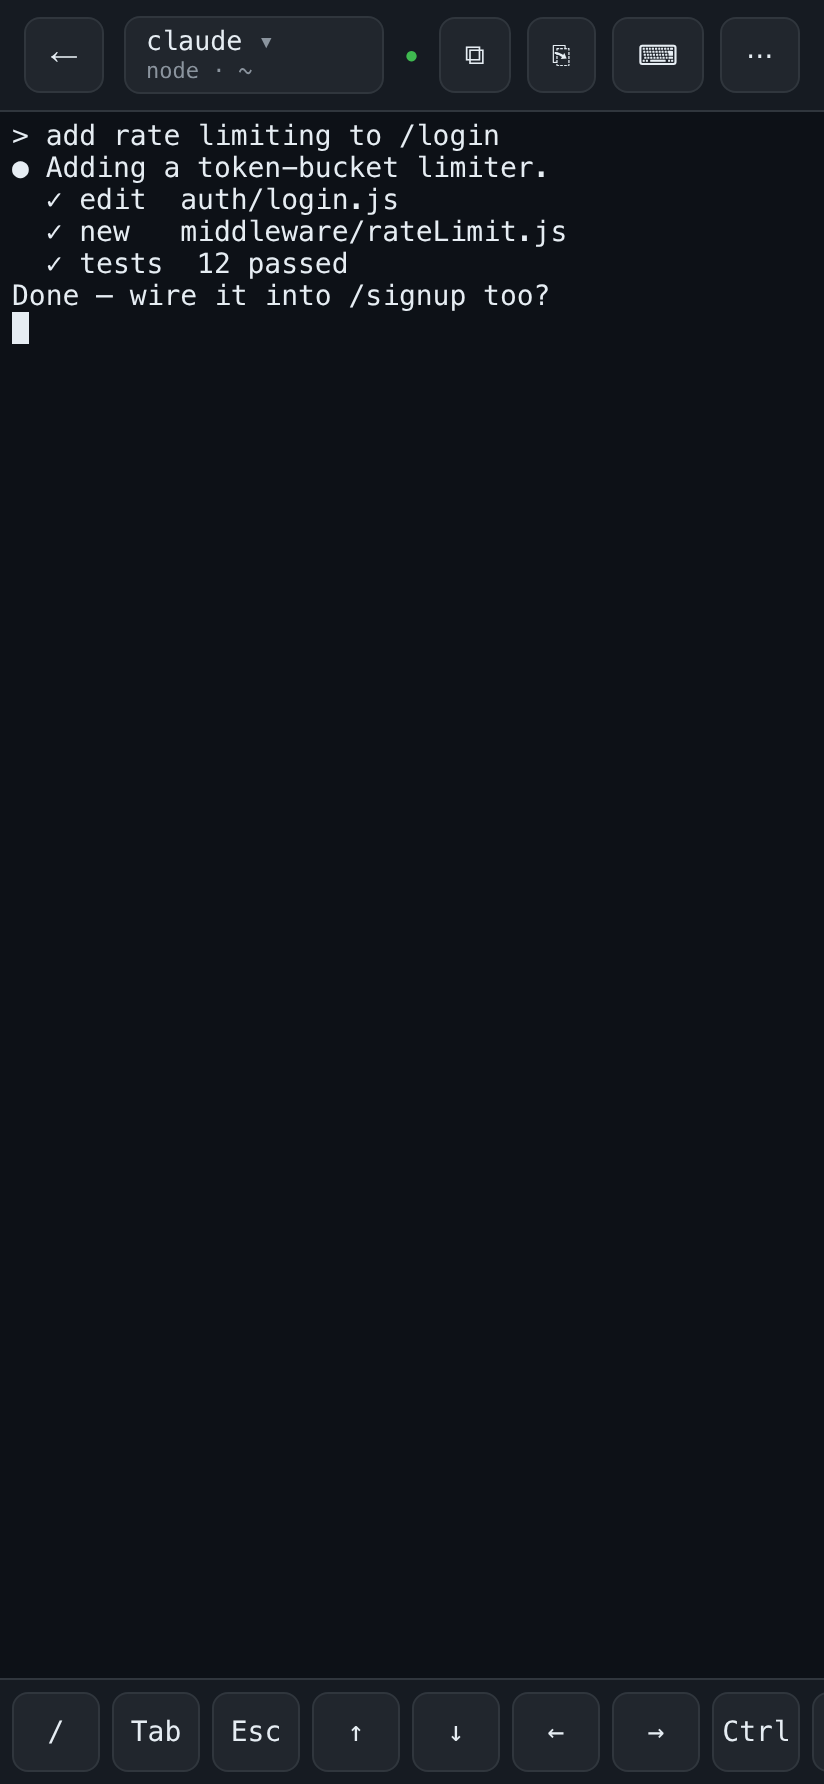
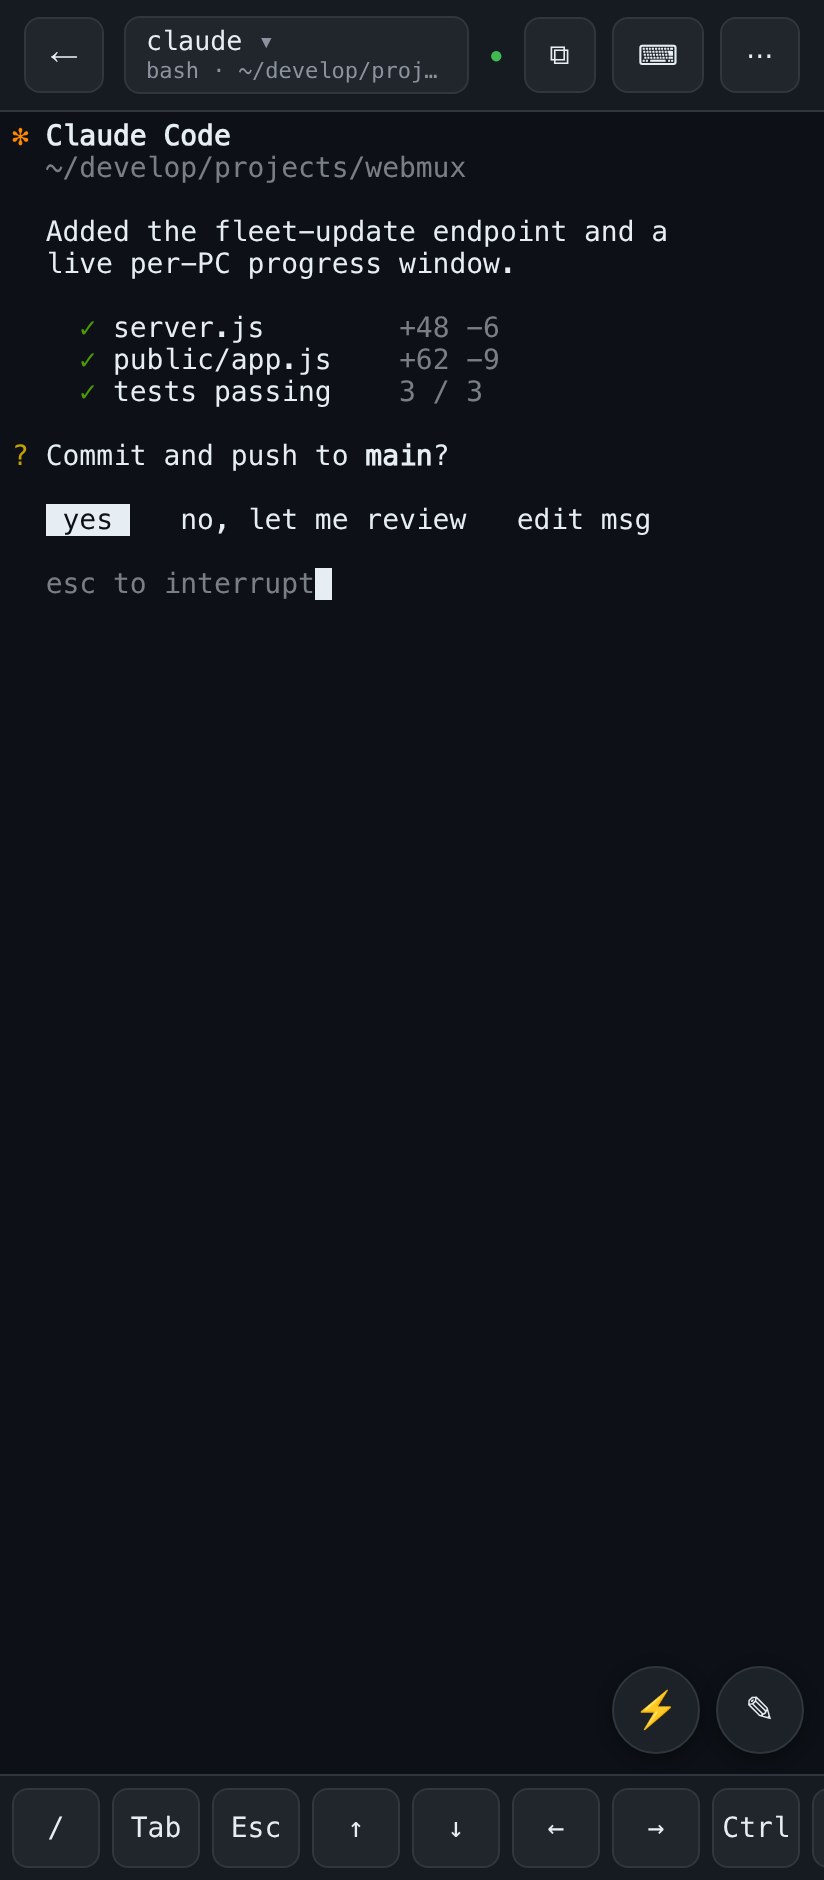
Rewrite README as a product showcase; move internals to docs/TECHNICAL.md
- README is now benefit-driven and sells the workflow, with fresh screenshots of
  the features in action (fleet stats picker, answering an agent with one-tap
  chips, sessions grouped by machine, the terminal view, the compose bar).
- All the deep details (config table, full HTTP/WS API, fleet-update mechanism,
  Web Push activity alerts, Tailscale peer proxying, notes/caveats) moved to a
  new docs/TECHNICAL.md, linked from the README.

diff --git a/docs/TECHNICAL.md b/docs/TECHNICAL.md
@@ -1,0 +1,147 @@
+# webmux — technical reference
+
+The user-facing pitch lives in the [README](../README.md). This document covers configuration, the
+API, and how the moving parts work.
+
+## How it works
+
+webmux replaces ttyd while keeping the tmux session model intact. The backend is a small Node HTTP
+server (`server.js`, no framework) that:
+
+- serves the static PWA from `public/`,
+- exposes a JSON API over plain HTTP,
+- bridges a WebSocket to a real PTY running `tmux attach` / `tmux new-session` (via `node-pty`).
+
+Each terminal WebSocket is symmetric and frame-type discriminated:
+
+- **text frame** — a JSON control message (`{type:"session"|"resize"|"error"|"exit"|"ping"|"pong", …}`),
+- **binary frame** — raw terminal bytes (stdin client→server, stdout server→client).
+
+Detaching the browser kills only the PTY's `tmux attach` client; tmux keeps the session alive, so
+nothing is lost when the phone disconnects. New sessions are created with `destroy-unattached off` so
+they survive even before the desktop window attaches.
+
+## Install
+
+```sh
+curl -fsSL https://raw.githubusercontent.com/samoylenkodmitry/webmux/main/install.sh | bash
+```
+
+Installs a background service on `127.0.0.1:8083` — a **systemd user service** on Linux, a **launchd
+agent** on macOS. The installer is **interactive**: it offers to install `tmux` if missing, lets you
+pick which installed terminal **New** opens on the desktop, can auto-start tmux in new shells (so
+terminals you open normally also show up in webmux), and can configure the Tailscale share.
+
+- **Requires** Node ≥ 18, npm, and a C toolchain for the native PTY module (Linux:
+  `base-devel`/`build-essential` + `python3`; macOS: Xcode Command Line Tools).
+- Set `WEBMUX_NONINTERACTIVE=1` to accept defaults silently (used by the in-app fleet update). On a
+  machine that already has webmux, a non-interactive run **reuses the existing settings**.
+- The installer is also the **deploy** step: re-running it does `git fetch` + `reset --hard origin/main`
+  in `~/.local/share/webmux`, rebuilds, and restarts the service.
+
+Expose it to your phone (recommended: Tailscale, which keeps it private):
+
+```sh
+tailscale serve --bg 8083
+```
+
+### Run from source
+
+```sh
+git clone https://github.com/samoylenkodmitry/webmux && cd webmux
+npm install   # builds node-pty, vendors xterm.js into public/vendor
+npm start     # http://127.0.0.1:8083
+```
+
+## Configure
+
+Environment variables (set in the generated service file or your shell):
+
+| var | default | meaning |
+|-----|---------|---------|
+| `HOST` | `127.0.0.1` | bind address |
+| `PORT` | `8083` | port |
+| `DESKTOP_TERMINAL` | ghostty (Linux) · Terminal.app (macOS) | emulator for "open on PC"; any that accepts `-e <cmd>` |
+| `TERM_NAME` | `xterm-256color` | `TERM` for the PTY |
+| `TMUX_SOCKET` | — | target a specific `tmux -L <name>` server |
+| `TMUX_BIN` | `tmux` (PATH) | absolute path to the tmux binary (baked in by the installer) |
+| `WEBMUX_STATE` | `~/.local/state/webmux` | recents, shared snippets, VAPID keys, push subscriptions |
+| `WEBMUX_TAILSCALE` | unset | `1` shows this node's share + other tailnet webmux instances in the picker |
+| `WEBMUX_INSTALL_URL` | the GitHub `install.sh` | override the installer one-liner used by the update button |
+
+## Security
+
+webmux has **no authentication** — anyone who can reach the port gets a shell as you. That is safe
+*only* because it binds to `127.0.0.1` and is exposed through your private Tailscale tailnet, which
+authenticates devices. **Do not** bind it to `0.0.0.0`, the public internet, or a `tailscale funnel`.
+Treat the URL like SSH access to your machine. The fleet features (broadcast, update, shared snippets)
+inherit this model: they reach peers over the tailnet only, with no extra auth.
+
+## Multiple machines (Tailscale)
+
+With `WEBMUX_TAILSCALE=1`, webmux discovers other webmux instances on your tailnet by probing each
+online peer's `/api/health` (dialing the peer's Tailscale IP with the MagicDNS name as SNI + Host, so
+TLS validates even when this node's own MagicDNS can't resolve `.ts.net`). Peer data shown in the
+picker — sessions, stats, health — is **proxied through your local server** (`/api/peer/*`) so the
+browser never has to make cross-origin requests. Tapping a peer navigates to its `…ts.net` URL in the
+same tab; if it can't be reached from your device, the picker shows a one-line `/etc/hosts` workaround.
+
+## Fleet update
+
+Pressing **Update all** updates every *other* box on the tailnet to this PC's version, with a live
+per-machine progress window; this PC stays up as the coordinator (update it the normal way). For each
+peer:
+
+- newer peers self-update via `POST /api/update?scope=self`;
+- peers too old to have that endpoint are bootstrapped by driving their `/ws/new` shell — the same
+  shell access the UI already has — to run the installer.
+
+The installer runs non-interactively, **reuses each box's existing settings**, and is detached with
+`nohup` so it survives the service restart it triggers (output → `/tmp/webmux-update.log` on each
+peer). The progress window polls each peer's `/api/health` version until it matches.
+
+## Activity alerts (Web Push)
+
+Opt-in via 🔔 in the terminal menu (install the PWA first). The server keeps per-session activity
+state in its 5-second sampler; when a session that was producing output goes quiet for ~12s **while no
+client is attached**, it sends a Web Push notification ("X is idle — your turn"). Tapping it focuses
+or opens that session. VAPID keys are generated once and persisted to `WEBMUX_STATE`; subscriptions are
+stored there too. If the `web-push` dependency is missing, the endpoints simply report disabled. The
+picker also shows a "new output" dot on sessions whose activity advanced since you last viewed them.
+
+## HTTP / WebSocket API
+
+| path | method | purpose |
+|------|--------|---------|
+| `/api/sessions` | GET | list tmux sessions (name, attached, windows, foreground command, path, activity) |
+| `/api/session?name=` | GET | one session's live command/dir/activity |
+| `/api/recents` | GET | recently closed directories |
+| `/api/capture?name=` | GET | full scrollback as plain text |
+| `/api/windows?name=` | GET/POST | list / select / new / kill windows |
+| `/api/open?name=` | POST | open the session as a real terminal window on the PC |
+| `/api/kill?name=` | POST | kill a session |
+| `/api/stats` · `/api/procs` | GET | machine stats (cpu/gpu/ram/disk/temp/uptime/load) · top processes |
+| `/api/broadcast?scope=` | POST | run a command on this box (`self`) or the whole fleet (`all`) |
+| `/api/update?scope=` | POST | self-update (`self`) or coordinate a fleet update (`all`) |
+| `/api/snippets` | GET/POST | shared quick-reply chips (POST `?scope=all` fans out to peers) |
+| `/api/push/key` · `/subscribe` · `/unsubscribe` · `/test` | GET/POST | Web Push wiring |
+| `/api/tailnet` | GET | this node's share state + discovered webmux peers |
+| `/api/peer/{sessions,health,stats,procs}?dns=&ip=` | GET | proxy the corresponding endpoint on a peer |
+| `/api/health` | GET | tmux reachability + running version |
+| `/ws/session/<name>` | WS | attach an existing session |
+| `/ws/new[?name=&dir=&desktop=1]` | WS | create + attach a new session (in `~` by default) |
+
+## Notes
+
+- webmux only sees **tmux** sessions. To make terminals you open normally show up, let the installer
+  add the **auto-tmux** snippet to your shell rc (guarded by `# >>> webmux tmux autostart >>>` markers
+  — delete that block to undo).
+- The session list shows the **full foreground command** (so `sudo btop` reads as `sudo btop`, not just
+  `sudo`), resolved from the pane's controlling-terminal foreground process group (Linux).
+- **"Open on PC"** is best-effort (Ghostty on Linux; Terminal.app/iTerm/Ghostty on macOS). The service
+  reads the graphical session's `DISPLAY`/`WAYLAND_DISPLAY`/D-Bus env from the systemd user manager at
+  spawn time, so it works even though the background service starts without them.
+- **Scrollback limits:** full-screen TUIs that repaint in place (e.g. Claude Code) keep their own
+  scroll view and don't push history into the terminal scrollback, so the copy view can only capture
+  the current screen for those. Regular shell/command output captures in full.
+- Per-terminal **font size** is remembered per session; quick-reply snippets are shared fleet-wide.

diff --git a/README.md b/README.md
@@ -1,53 +1,83 @@
 <h1 align="center">webmux</h1>
 
-
-All terminals from all computers in a single place.
-
-https://github.com/user-attachments/assets/f6fbf494-1de4-47cb-b80e-32f76660511e
-
-
-
+<p align="center"><b>Every terminal on every computer you own — in your pocket.</b></p>
 
 <p align="center">
   <img src="public/icon.svg" width="84" alt="webmux">
 </p>
 
-<p align="center">A tiny self-hosted <b>web terminal for your tmux sessions</b> — attach to, create, and switch between terminals on your machine from any browser. Built for phones.</p>
+https://github.com/user-attachments/assets/f6fbf494-1de4-47cb-b80e-32f76660511e
 
 <p align="center">
-  <img src="docs/picker.png" alt="session picker" width="44%">
-  &nbsp;&nbsp;
-  <img src="docs/terminal.png" alt="terminal view" width="44%">
+A tiny self-hosted <b>web terminal for your tmux sessions</b>, built for phones. Run your long-lived
+terminals — coding agents, dev servers, builds — in tmux on your machines at home; check on and steer
+them from your phone, <b>from anywhere</b>, over your private Tailscale network.
 </p>
 
 ---
 
-Rendered with [xterm.js](https://xtermjs.org/); the backend bridges a WebSocket to `tmux attach` over a real PTY. Detaching the browser never kills your local terminal.
+<p align="center">
+  <img src="docs/picker.png"        alt="All your machines and sessions, with live stats" width="30%">
+  &nbsp;
+  <img src="docs/quick-replies.png" alt="Answer your coding agent with one tap"          width="30%">
+  &nbsp;
+  <img src="docs/switcher.png"      alt="Every machine's sessions in one list"           width="30%">
+</p>
 
-## What it does
-- Lists your tmux sessions; attach, create, switch, or close them.
-- Full terminal over WebSocket: input/output, resize, paste, scrollback, copy.
-- **Mobile-first:** soft keys (`/ Tab Esc ↑↓←→ Ctrl ^C …`), keyboard-aware layout, touch scrolling, installable as a home-screen app (PWA), robust reconnect on wake/network change.
-- **New sessions also open a real terminal window on your PC** and persist after the browser leaves — so they stay visible locally and you can always return to them.
-- **Recent directories:** when a session closes, its directory is remembered so you can start a fresh terminal there in one tap.
-- **Live title:** the bar (and tab) shows the session's current command + directory.
-- **Multiple machines:** optionally discovers other webmux instances on your [Tailscale](https://tailscale.com) tailnet and shows them as a row of cards — each with **live CPU / GPU / RAM / free disk and a CPU sparkline**; tap ⓘ for **top processes, temperature, uptime and load**. Switch between boxes, or hit ⇉ to **run a command on the whole fleet** and see each one's output. The session switcher also lists **every machine's sessions, grouped by box** (each peer streams in as it answers), with a per-machine **＋ New** button.
-- **Compose bar:** a ✎ floating button opens a plain text field to type into and **Send** to the terminal — mobile keyboards' predictive text / T9 work there without the character-doubling that direct in-terminal typing can cause. It auto-grows, keeps a **navigable, persisted history** of inputs (each Send starts a new item; the live draft is saved as you type, so a reload never loses it), and has an **Undo** for accidental big pastes. Plus **Undo last** (erase exactly what you last typed) and **Clr Ln** (^U) soft-keys.
-- **Quick replies:** a ⚡ toggle shows a row of one-tap chips (`y` / `continue` / `approve` / …) that send common answers to coding agents without the keyboard. The list is editable and **synced across the whole tailnet** — edit it on one machine and every webmux picks it up.
-- **Scrollback search:** the copy view has a search box with match count and next/prev to find text across the captured history.
-- **One-tap fleet update:** a menu button updates **every other webmux box on your tailnet** to this PC's version — non-interactively, each machine keeping its own settings — with a live per-PC progress window. (This PC stays up as the coordinator/source; update it the normal way.)
-- **Activity alerts:** opt-in push notifications — when a session that was producing output goes quiet while no client is attached (your agent/build finished and is waiting), your phone buzzes; tap the notification to jump straight into that session. The picker also shows a "new output" dot on sessions that changed since you last looked. (Install the PWA and toggle 🔔 Notifications in the terminal menu; uses Web Push.)
-- **Per-terminal font size:** each session remembers its own zoom.
+## Why you'll want this
 
-## Why (the workflow)
+You run `claude`, `codex`, dev servers, and builds in **tmux on your big machine**. Then you leave the desk.
 
-Run your long-lived terminals — `claude`, `codex`, dev servers, builds, `htop` — in **tmux on your big machine**. Put webmux in front, reachable only over your private [Tailscale](https://tailscale.com) network. Now from your phone, anywhere:
+webmux puts a real terminal in your pocket. From your phone, anywhere on your private network:
 
-1. Open the home-screen app → see every session with its live command/dir.
-2. Tap one to jump in: read what your coding agent is doing, answer its prompt, approve a step, paste a fix, `^C` a runaway, scroll back through output.
-3. Tap **＋ New** (or a recent dir) to start a fresh session — a **real Ghostty/Terminal window opens on the PC too**, so when you're back at the desk it's right there, exactly where the phone left it.
+- **See everything at a glance** — every session on every machine, with its live command and directory, plus each box's **CPU / GPU / RAM / free disk** at the top. You instantly know where the action is.
+- **Jump in and steer** — read what your agent is doing, **answer its prompt with one tap** (`y` · `continue` · `approve`), paste a fix, `^C` a runaway, scroll back through the output.
+- **Nothing is ever lost** — every session lives in tmux on the PC, so when your phone sleeps, drops Wi-Fi, or switches to cellular, webmux just re-attaches. Pick up exactly where you left off — and when you're back at the desk, the same session is right there in a real terminal window.
 
-Because every session lives in tmux on the PC, nothing is lost when the phone disconnects, sleeps, or switches networks — webmux just re-attaches. It's "check on and steer the agents running at home, from the train."
+It's *"keep an eye on the agents running at home, from the train."*
+
+## What makes it nice
+
+<table>
+<tr>
+<td width="50%" valign="top">
+
+**📟 Built for thumbs**
+A full terminal over WebSocket with momentum scrolling, a soft-key bar (`Tab Esc ↑↓←→ Ctrl ^C …`), and a keyboard-aware layout. Installable as a home-screen app (PWA).
+
+**✍️ Type without fighting your keyboard**
+A compose field where predictive text / T9 work *without* the character-doubling you get typing straight into a terminal — with a **navigable input history**, auto-grow, and an **undo** for accidental big pastes.
+
+**⚡ One-tap answers**
+A row of editable quick-reply chips (`y` / `continue` / `approve` / …) to answer agents without the keyboard — **synced across all your machines**.
+
+**🔎 Find anything**
+Search the scrollback with match-count and next/prev.
+
+</td>
+<td width="50%" valign="top">
+
+**🖥️ One app for every box**
+Discovers your other webmux instances over [Tailscale](https://tailscale.com) and shows them as **live machine cards** (CPU/GPU/RAM/disk + a CPU sparkline; tap for top processes, temperature, uptime). The session switcher lists **every machine's sessions, grouped by box**.
+
+**🚀 Run it everywhere at once**
+Push a command to your **whole fleet** and see each machine's output. **Update every box** to the latest with one tap and a live progress window.
+
+**🔔 It pings you**
+Opt-in push notifications when a session that was busy goes quiet — *your agent finished and is waiting.* Tap to jump straight in.
+
+**🪟 Always at your desk too**
+New sessions also open a **real terminal window on the PC**, so when you sit back down it's right where the phone left it.
+
+</td>
+</tr>
+</table>
+
+<p align="center">
+  <img src="docs/terminal.png" alt="Jump into any session" width="30%">
+  &nbsp;
+  <img src="docs/compose.png"  alt="Compose with history and undo" width="30%">
+</p>
 
 ## Install
 
@@ -55,51 +85,18 @@ Because every session lives in tmux on the PC, nothing is lost when the phone di
 curl -fsSL https://raw.githubusercontent.com/samoylenkodmitry/webmux/main/install.sh | bash
 ```
 
-Installs a background service on `127.0.0.1:8083` (systemd user service on Linux, launchd agent on macOS). It's **interactive**: it offers to install `tmux` if missing, lets you choose which installed terminal **New** opens on the desktop, and can optionally auto-start tmux in new shells so terminals you open normally also appear in webmux. **Requires** Node ≥ 18, npm, and a C toolchain for the native PTY module (Linux: `base-devel`/`build-essential` + `python3`; macOS: Xcode Command Line Tools). Set `WEBMUX_NONINTERACTIVE=1` to accept defaults silently.
+Installs a background service on `127.0.0.1:8083` (systemd on Linux, launchd on macOS) and can configure your private **Tailscale** share for you. Then open the printed `https://…ts.net` URL on your phone and **Add to Home Screen**.
 
-The installer can also configure the private Tailscale share for you. If you
-skip that prompt, expose it manually:
+**Requires** Node ≥ 18, npm, tmux, and a C toolchain for the native PTY module. **Linux & macOS** (Windows via WSL). To update later — or update your whole fleet — just hit **⬆ Update** in the menu.
 
-```sh
-tailscale serve --bg 8083
-```
+> [!IMPORTANT]
+> webmux has **no authentication** — anyone who can reach the port gets a shell as you. That's intentional and safe *only* because it binds to `127.0.0.1` and you expose it through your private Tailscale tailnet (which authenticates devices). **Never** bind it to `0.0.0.0`, the public internet, or a `tailscale funnel`. Treat the URL like SSH access to your machine.
 
-Open the printed `https://…ts.net` URL on your phone and **Add to Home Screen**.
+## Docs
 
-## Configure
+Configuration, the HTTP/WebSocket API, how the fleet update and activity alerts work, and other internals live in **[docs/TECHNICAL.md](docs/TECHNICAL.md)**.
 
-Environment variables (set in the generated service file or your shell):
-
-| var | default | meaning |
-|-----|---------|---------|
-| `HOST` | `127.0.0.1` | bind address |
-| `PORT` | `8083` | port |
-| `DESKTOP_TERMINAL` | ghostty (Linux) · Terminal.app (macOS) | emulator for "open on PC"; set to any that accepts `-e <cmd>` |
-| `TERM_NAME` | `xterm-256color` | `TERM` for the PTY |
-| `TMUX_SOCKET` | — | target a specific `tmux -L <name>` server |
-| `WEBMUX_STATE` | `~/.local/state/webmux` | where recent-directory history is stored |
-| `WEBMUX_TAILSCALE` | unset | `1` shows this node's share state + other tailnet webmux instances in the picker |
-
-## Run from source
-
-```sh
-git clone https://github.com/samoylenkodmitry/webmux && cd webmux
-npm install   # builds node-pty, vendors xterm.js into public/vendor
-npm start     # http://127.0.0.1:8083
-```
-
-## Security
-
-webmux has **no authentication** — anyone who can reach the port gets a shell as you. That's intentional and safe *only* because it binds to `127.0.0.1` and you expose it through your private Tailscale tailnet (which authenticates devices). **Do not** bind it to `0.0.0.0` or put it on the public internet / a `tailscale funnel`. Treat the URL like SSH access to your machine.
-
-## Notes
-- webmux only sees **tmux** sessions. To make terminals you open normally show up, let the installer add the **auto-tmux** snippet to your shell rc (it's guarded by `# >>> webmux tmux autostart >>>` markers — delete that block to undo).
-- **Linux & macOS** supported (open-on-PC uses Ghostty on Linux, Terminal.app/iTerm/Ghostty on macOS via your installer choice). **Windows:** run under WSL (Linux from there).
-- "Open on PC" is best-effort; with no display it falls back to a browser-only session.
-- Opening a peer's `…ts.net` URL from a desktop needs Tailscale MagicDNS working there; if it doesn't, the picker shows a one-line `/etc/hosts` workaround for that peer.
-- HTTP API: `/api/sessions`, `/api/session`, `/api/recents`, `/api/capture`, `/api/windows`, `/api/open`, `/api/kill`, `/api/update`, `/api/stats`, `/api/broadcast`, `/api/snippets`, `/api/push/*`, `/api/peer/sessions`, `/api/peer/health`, `/api/peer/stats`, `/api/tailnet`, `/api/health`; WebSocket at `/ws/session/<name>` and `/ws/new`. See [`server.js`](server.js).
-- The session list shows the **full foreground command** (so `sudo btop` reads as `sudo btop`, not just `sudo`), resolved from the pane's controlling-terminal foreground process group (Linux). New sessions open in `~`.
-- The **all-PCs update** reaches every webmux box on your tailnet: newer ones via `POST /api/update?scope=self`, and older ones (predating that endpoint) by driving their `/ws/new` shell to run the installer — the same shell access the UI already has. The install runs non-interactively (reusing each box's existing settings) and is detached with `nohup` so it survives the service restart it triggers (output goes to `/tmp/webmux-update.log` on each peer). The progress window polls each peer's `/api/health` version until it matches.
+Built with [xterm.js](https://xtermjs.org/); the backend bridges a WebSocket to `tmux attach` over a real PTY.
 
 ## License
 MIT